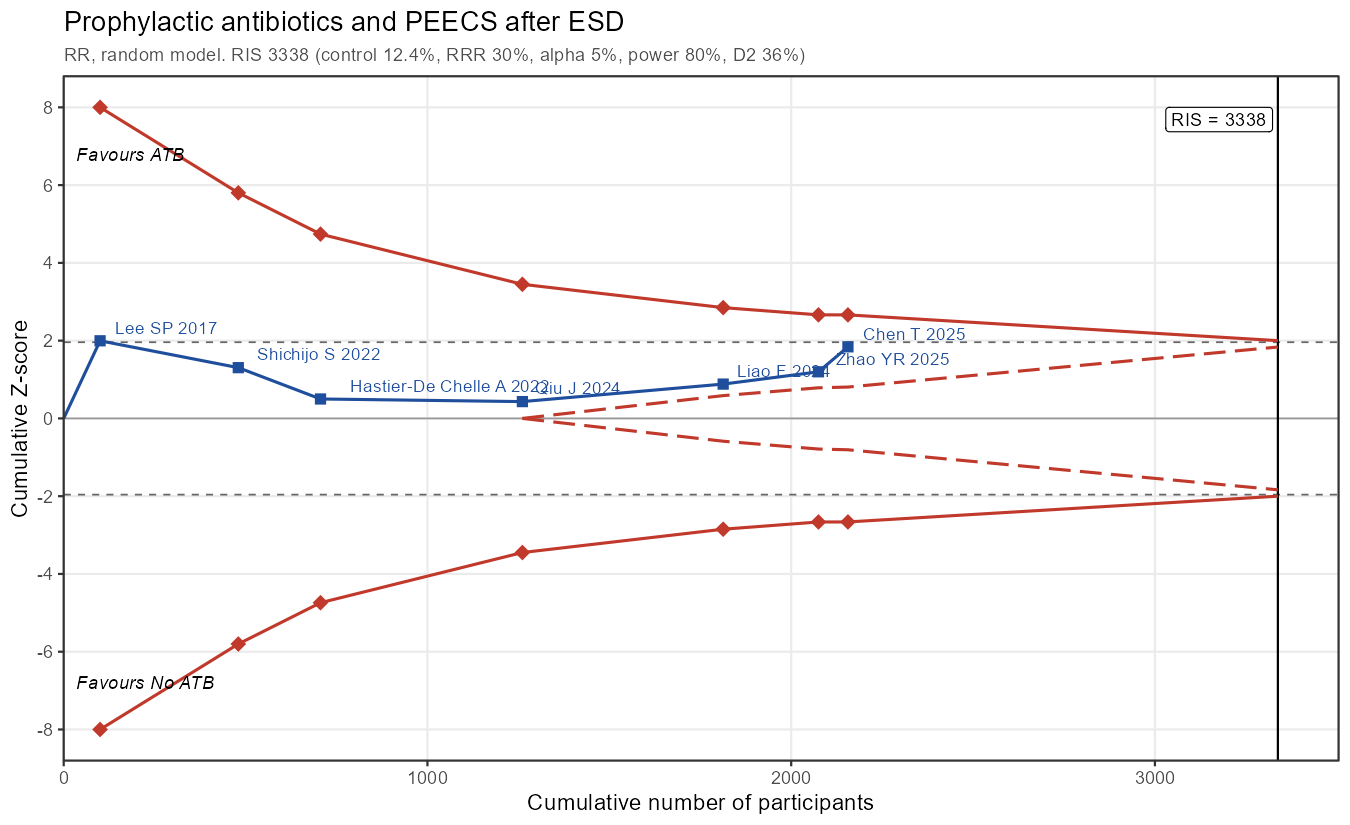
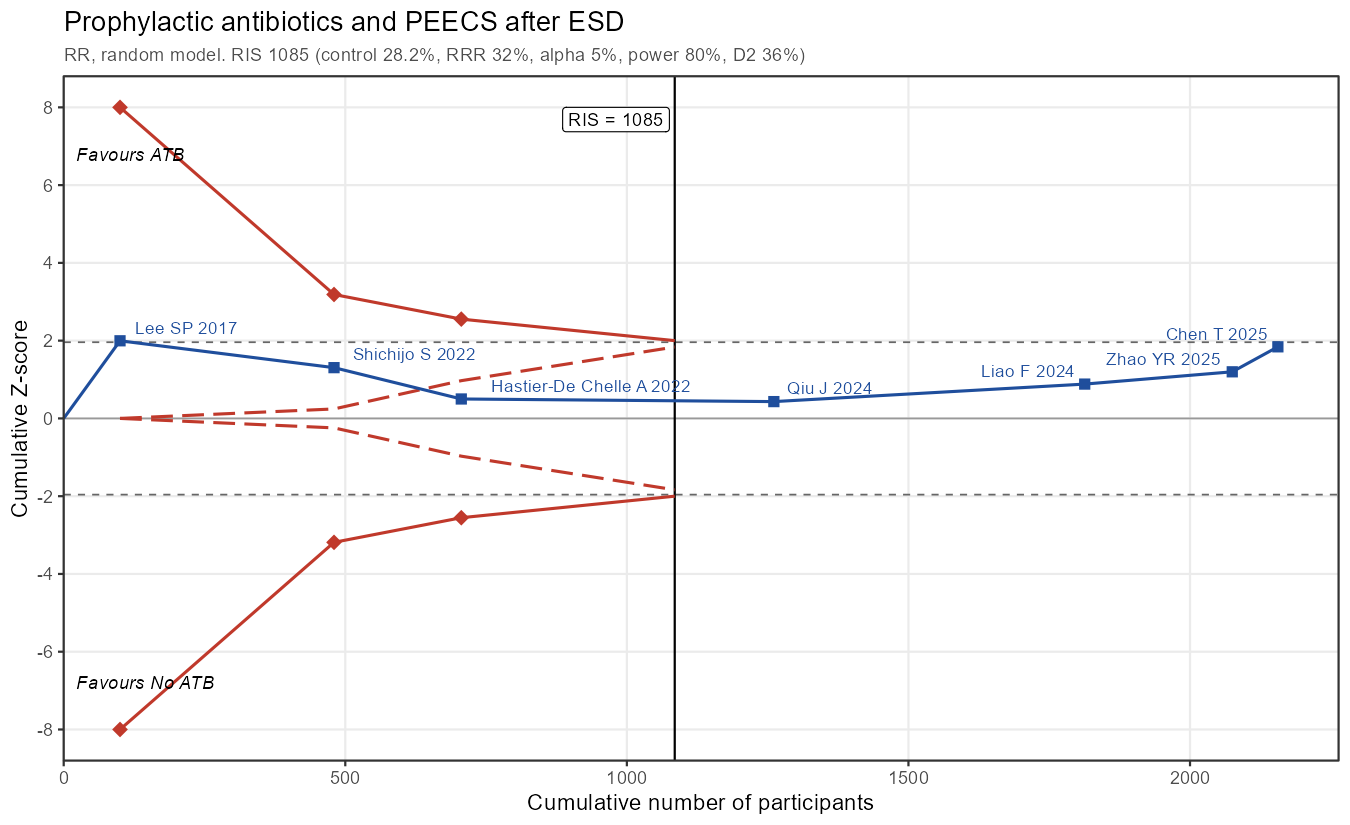
feat: empirical effect from weight-averaged arm proportions
Default anticipated effect now follows the TSA empirical option: each
arm's event proportion averaged with the model weights of the meta
object, RRR = 1 - p_e / p_c. New intervention= argument. Print shows
both arm risks. Plot labels near the right edge flip to the left.

diff --git a/README.md b/README.md
@@ -62,21 +62,26 @@ m <- metabin(event.e, n.e, event.c, n.c, data = atb_peecs,
              method = "MH", method.tau = "REML",
              random = TRUE, common = FALSE)
 
-x <- tsa_create(m, rrr = 0.30, label.e = "ATB", label.c = "No ATB",
+x <- tsa_create(m, label.e = "ATB", label.c = "No ATB",
                 title = "Prophylactic antibiotics and PEECS after ESD")
 x
 ```
 
+Defaults: 5% two-sided conventional boundary, alpha-spending boundary
+on the sample-size axis with 80% power, anticipated effect taken from
+the meta output (each arm's event proportion averaged with the model
+weights), and the RIS inflated by the diversity D-squared of the model.
+
 ```
 Trial Sequential Analysis: Prophylactic antibiotics and PEECS after ESD
   ATB vs No ATB, RR, random model, 7 trials, 2156 participants
-  Anticipated effect: control 12.4%, RRR 30.0% (user), intervention 8.6%
+  Anticipated effect (empirical, weighted arms): control 28.17%, intervention 19.16%, RRR 32.0%
   alpha 0.05 (two-sided), power 80%, OBF spending
   Diversity adjustment: D2 = 35.6% (factor 1.55)
-  RIS = 3338 (fixed-effect RIS = 2149); information fraction 64.6%
-  Cumulative Z = 1.84; boundary at last look = 2.66
-  Conclusion: Inconclusive: neither the monitoring nor the futility
-  boundaries were crossed, and the RIS was not reached.
+  RIS = 1085 (fixed-effect RIS = 698); information fraction 198.7%
+  Cumulative Z = 1.84; boundary at last look = 1.96
+  Conclusion: Futility boundary crossed at look 3 (Hastier-De Chelle A 2022):
+  the anticipated effect can be rejected.
 ```
 
 ```r
@@ -85,18 +90,18 @@ summary(x)
 
 ```
  Look                    Study Year    N    IF     Z Boundary Futility
-    1              Lee SP 2017 2017  100 0.030 1.996    8.000
-    2          Shichijo S 2022 2022  480 0.144 1.306    5.802
-    3 Hastier-De Chelle A 2022 2022  706 0.212 0.500    4.740
-    4               Qiu J 2024 2024 1261 0.378 0.432    3.449
-    5              Liao F 2024 2024 1813 0.543 0.883    2.849    0.586
-    6             Zhao YR 2025 2025 2075 0.622 1.199    2.664    0.788
-    7              Chen T 2025 2025 2156 0.646 1.841    2.663    0.806
+    1              Lee SP 2017 2017  100 0.092 1.996    8.000
+    2          Shichijo S 2022 2022  480 0.442 1.306    3.187    0.244
+    3 Hastier-De Chelle A 2022 2022  706 0.651 0.500    2.554    0.971
+    4               Qiu J 2024 2024 1261 1.162 0.432    1.960
+    5              Liao F 2024 2024 1813 1.671 0.883    1.960
+    6             Zhao YR 2025 2025 2075 1.912 1.199    1.960
+    7              Chen T 2025 2025 2156 1.987 1.841    1.960
 
 Final estimate (RR):
          type estimate lower upper z_boundary
- conventional    0.748 0.550 1.019      1.960
- TSA-adjusted    0.748 0.492 1.138      2.663
+ conventional    0.748  0.55 1.019       1.96
+ TSA-adjusted    0.748  0.55 1.019       1.96
 ```
 
 ```r
@@ -107,9 +112,16 @@ tsa_plot(x, show_labels = TRUE)
 
 Reading: the blue squares are the cumulative Z after each study, the red
 diamonds the monitoring boundaries, the dashed wedge the futility
-boundaries, the vertical line the RIS. With 65% of the required
-information the Z-curve sits between the boundaries: the evidence is
-inconclusive for a 30% relative risk reduction.
+boundaries, the vertical line the RIS. The Z-curve entered the inner
+wedge at the third study and the RIS has been passed twice over, so an
+effect of the empirical size (RRR 32%) can be rejected; the final
+estimate stays below conventional significance.
+
+A clinically chosen effect instead of the empirical one:
+
+```r
+tsa_create(m, rrr = 0.30, control = 0.12)   # RIS 3338, IF 65%, inconclusive
+```
 
 ---
 
@@ -117,8 +129,9 @@ inconclusive for a 30% relative risk reduction.
 
 | Argument | Meaning | Default |
 |---|---|---|
-| `rrr` (or `md`) | anticipated relative risk reduction (mean difference) | pooled estimate of `m` ("empirical") |
-| `control` | anticipated control-group risk | pooled control risk of `m` |
+| `rrr` (or `md`) | anticipated relative risk reduction (mean difference) | "empirical": `1 - p_e / p_c` from the weighted arm proportions of `m` |
+| `control` | anticipated control-group risk | weight-averaged control-arm proportion of `m` |
+| `intervention` | anticipated intervention-group risk (alternative to `rrr`) | weight-averaged intervention-arm proportion of `m` |
 | `diversity` | heterogeneity adjustment of the RIS | `"D2"` from `m`; also `"I2"`, `"none"`, or a number |
 
 Other settings: `alpha` (0.05), `beta` (0.20), `futility` (TRUE),
